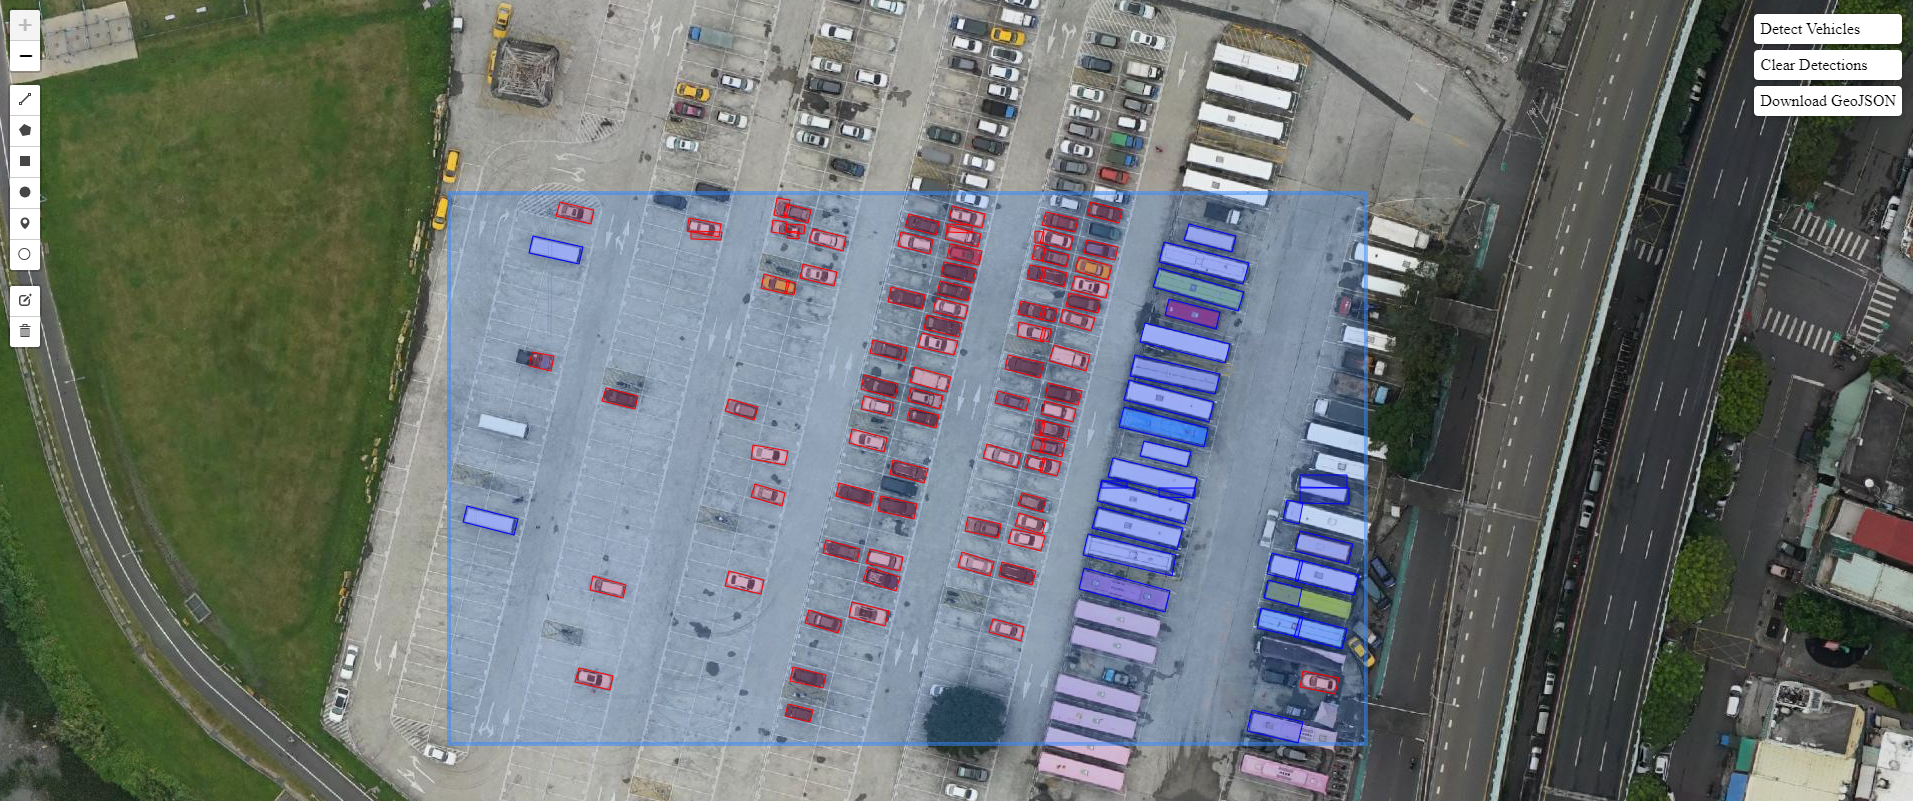
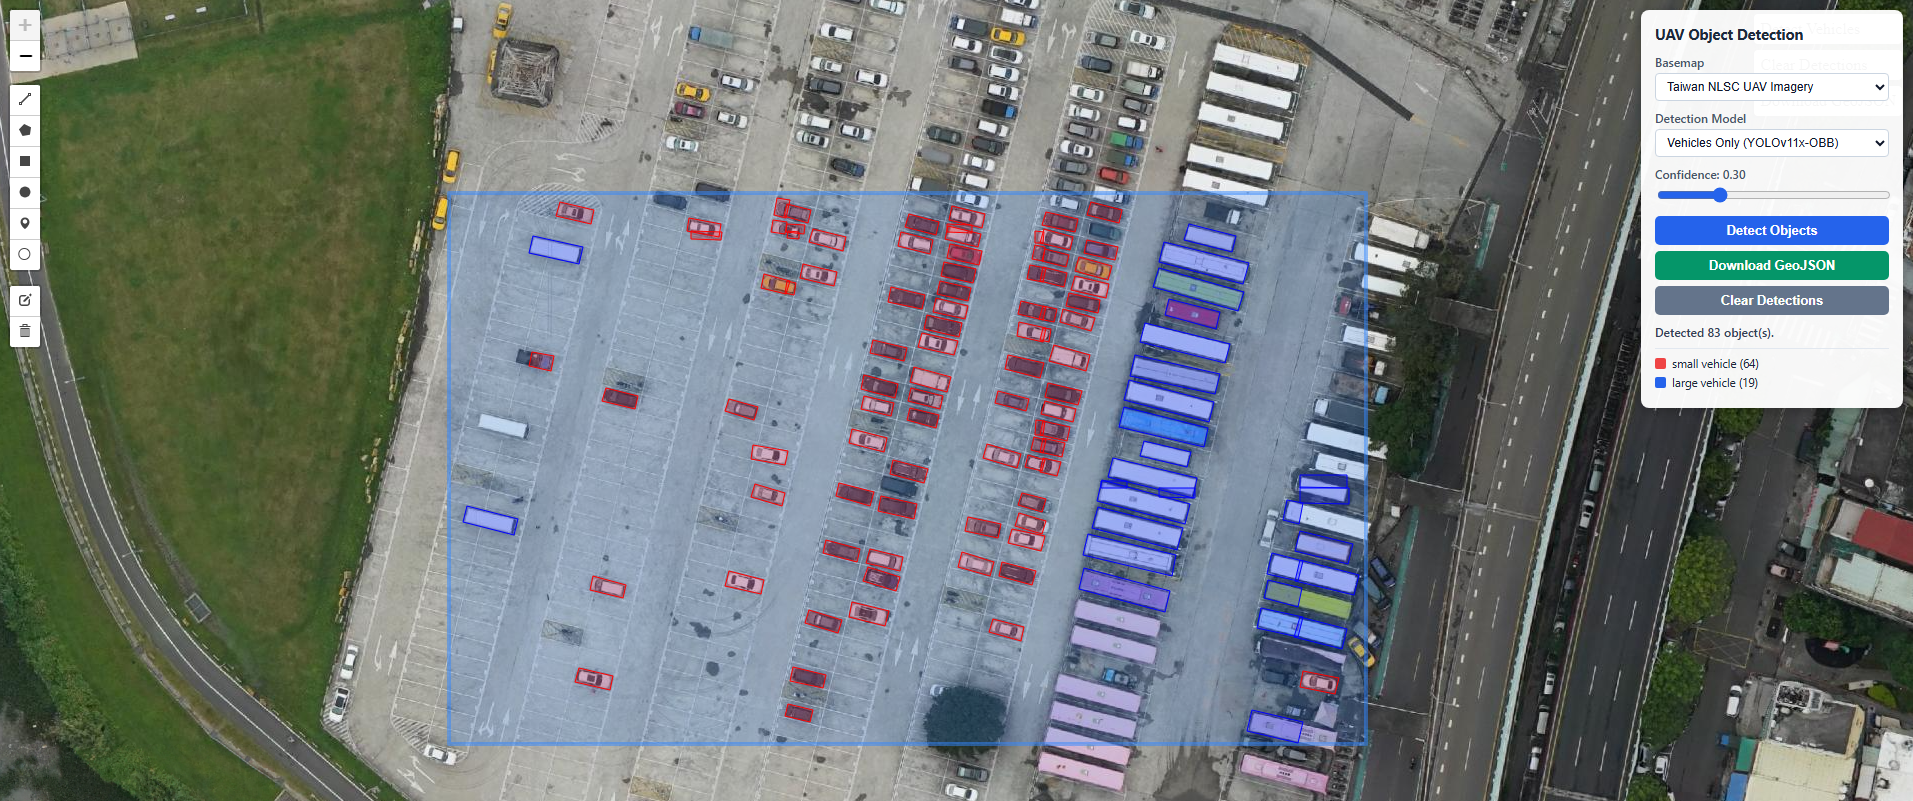
Update Demo screenshot example.png and readme.md link

Changed region(s): [[0.8327, 0.0, 1.0, 0.5306]]

diff --git a/readme.md b/readme.md
@@ -32,7 +32,7 @@ Once the server is running, open the public URL generated by **ngrok**.
 4. Click **Download GeoJSON** to save results.  
 5. Use **Clear Detections** to reset.
 
-![example](https://github.com/JAAAE/UAV-Vehicle-Detection-using-YOLOv11-OBB/blob/90e990d48066af21dc8c76afb99017cf9018ad71/example.png)
+![example](https://github.com/JAAAE/UAV-Vehicle-Detection-using-YOLOv11-OBB/blob/main/example.png)
 
 ---
 ## Future Work
